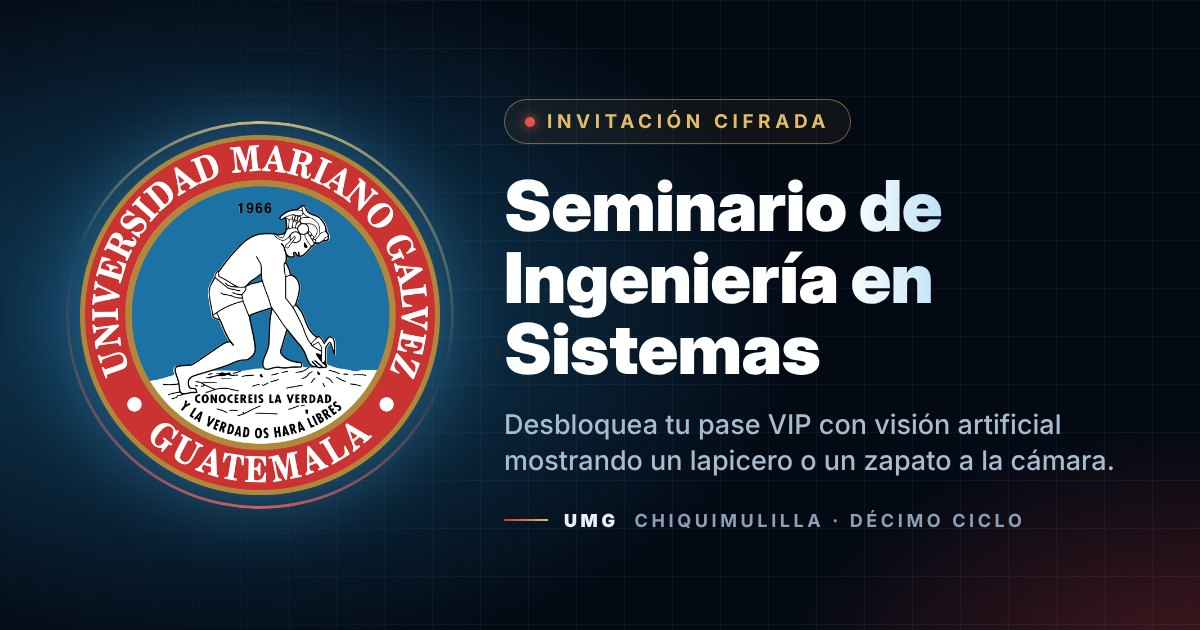
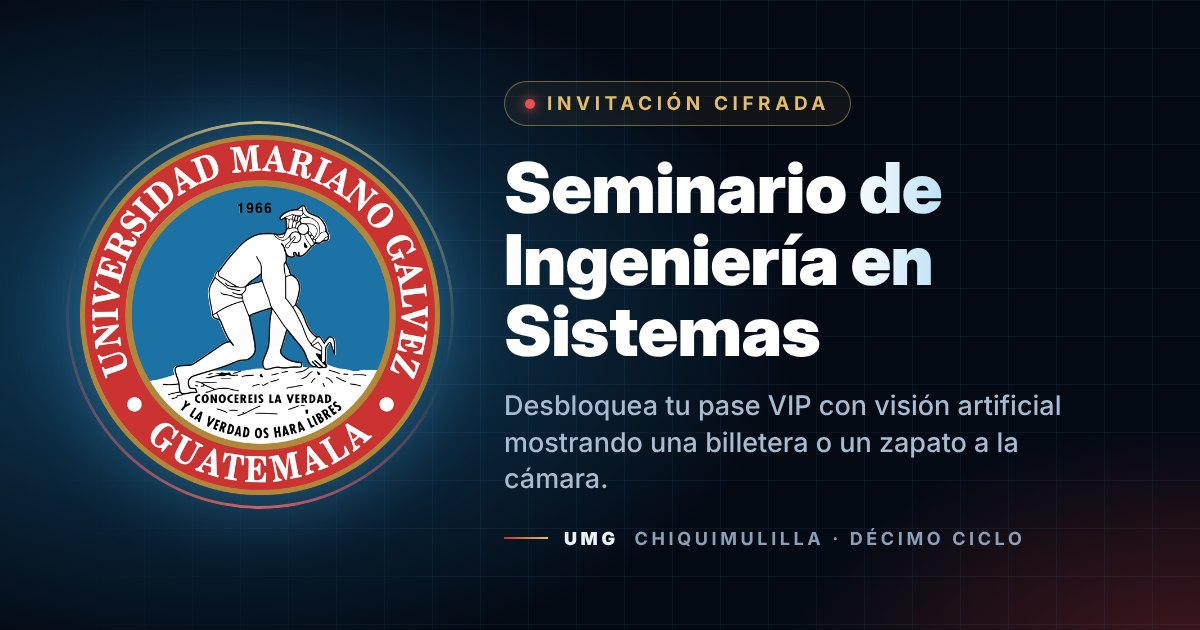
Actualiza la invitación para usar "billetera" en lugar de "lapicero" y modifica los íconos y referencias correspondientes.

diff --git a/static/index.html b/static/index.html
@@ -87,8 +87,8 @@
     <!-- ===== ETAPA 2: ESCÁNER ===== -->
     <section id="s-scan" class="stage hidden animate-stage flex-col gap-[18px]">
       <div class="rounded-2xl border border-line bg-glass px-4 py-3.5 text-center text-[15px] leading-relaxed backdrop-blur-md">
-        Muestra un
-        <b class="inline-flex items-center gap-1 font-semibold text-azul-luz"><i data-lucide="pen-line" class="size-4"></i>lapicero</b>
+        Muestra una
+        <b class="inline-flex items-center gap-1 font-semibold text-azul-luz"><i data-lucide="wallet" class="size-4"></i>billetera</b>
         o un
         <b class="inline-flex items-center gap-1 font-semibold text-azul-luz"><i data-lucide="footprints" class="size-4"></i>zapato</b>
         a la cámara para desencriptar tu invitación
@@ -108,11 +108,11 @@
       <div class="grid grid-cols-2 gap-3">
         <div class="rounded-xl border border-line bg-glass p-3">
           <div class="mb-2 flex items-center justify-between font-mono text-[11px] font-semibold tracking-wide">
-            <span class="flex items-center gap-1.5"><i data-lucide="pen-line" class="size-3.5 text-azul-luz"></i>LAPICERO</span>
-            <span id="v-lapicero">0%</span>
+            <span class="flex items-center gap-1.5"><i data-lucide="wallet" class="size-3.5 text-azul-luz"></i>BILLETERA</span>
+            <span id="v-billetera">0%</span>
           </div>
           <div class="h-1.5 overflow-hidden rounded-full bg-white/10">
-            <div id="b-lapicero" class="meter h-full w-0 rounded-full transition-[width] duration-500"></div>
+            <div id="b-billetera" class="meter h-full w-0 rounded-full transition-[width] duration-500"></div>
           </div>
         </div>
         <div class="rounded-xl border border-line bg-glass p-3">

diff --git a/static/icons.js b/static/icons.js
@@ -7,7 +7,7 @@ const ICONOS = {
   "calendar-check": '<path d="M8 2v4"></path><path d="M16 2v4"></path><rect width="18" height="18" x="3" y="4" rx="2"></rect><path d="M3 10h18"></path><path d="m9 16 2 2 4-4"></path>',
   "chevron-right": '<path d="m9 18 6-6-6-6"></path>',
   "clock": '<circle cx="12" cy="12" r="10"></circle><polyline points="12 6 12 12 16 14"></polyline>',
-  "pen-line": '<path d="M12 20h9"></path><path d="M16.376 3.622a1 1 0 0 1 3.002 3.002L7.368 18.635a2 2 0 0 1-.855.506l-2.872.838a.5.5 0 0 1-.62-.62l.838-2.872a2 2 0 0 1 .506-.854z"></path>',
+  "wallet": '<path d="M19 7V4a1 1 0 0 0-1-1H5a2 2 0 0 0 0 4h15a1 1 0 0 1 1 1v4h-3a2 2 0 0 0 0 4h3a1 1 0 0 0 1-1v-2a1 1 0 0 0-1-1"></path><path d="M3 5v14a2 2 0 0 0 2 2h15a1 1 0 0 0 1-1v-4"></path>',
   "cpu": '<rect width="16" height="16" x="4" y="4" rx="2"></rect><rect width="6" height="6" x="9" y="9" rx="1"></rect><path d="M15 2v2"></path><path d="M15 20v2"></path><path d="M2 15h2"></path><path d="M2 9h2"></path><path d="M20 15h2"></path><path d="M20 9h2"></path><path d="M9 2v2"></path><path d="M9 20v2"></path>',
   "crown": '<path d="M11.562 3.266a.5.5 0 0 1 .876 0L15.39 8.87a1 1 0 0 0 1.516.294L21.183 5.5a.5.5 0 0 1 .798.519l-2.834 10.246a1 1 0 0 1-.956.734H5.81a1 1 0 0 1-.957-.734L2.02 6.02a.5.5 0 0 1 .798-.519l4.276 3.664a1 1 0 0 0 1.516-.294z"></path><path d="M5 21h14"></path>',
   "download": '<path d="M21 15v4a2 2 0 0 1-2 2H5a2 2 0 0 1-2-2v-4"></path><polyline points="7 10 12 15 17 10"></polyline><line x1="12" x2="12" y1="15" y2="3"></line>',

diff --git a/static/app.js b/static/app.js
@@ -20,11 +20,11 @@ document.querySelectorAll("[data-cfg]").forEach((el) => (el.textContent = CONFIG
 const MODELO = "model/mobilenet_v3_large.int8.onnx";
 // Clases de ImageNet que cuentan como cada objeto (se suman sus probabilidades)
 const OBJETIVOS = {
-  lapicero: ["ballpoint", "fountain pen", "quill"],
+  billetera: ["wallet", "purse"],
   zapato: ["running shoe", "Loafer", "clog", "cowboy boot", "sandal", "shoe shop"],
 };
-const NOMBRES = { lapicero: "Lapicero", zapato: "Zapato" };
-const ICONO_OBJETIVO = { lapicero: "pen-line", zapato: "footprints" };
+const NOMBRES = { billetera: "Billetera", zapato: "Zapato" };
+const ICONO_OBJETIVO = { billetera: "wallet", zapato: "footprints" };
 const SIZE = 224, MEAN = [0.485, 0.456, 0.406], STD = [0.229, 0.224, 0.225];
 let session = null, labels = [];
 const indices = {};

diff --git a/README.md b/README.md
@@ -1,7 +1,7 @@
 # Invitación · Seminario de Ingeniería en Sistemas (UMG)
 
 Invitación web con desbloqueo por visión artificial. El invitado escribe su nombre,
-le muestra un **lapicero** o un **zapato** a la cámara y una red neuronal
+le muestra una **billetera** o un **zapato** a la cámara y una red neuronal
 (MobileNetV3) que corre **en su propio teléfono** desbloquea su pase VIP.
 
 Todo es estático: no hay servidor ni costos. Vercel solo sirve los archivos.
